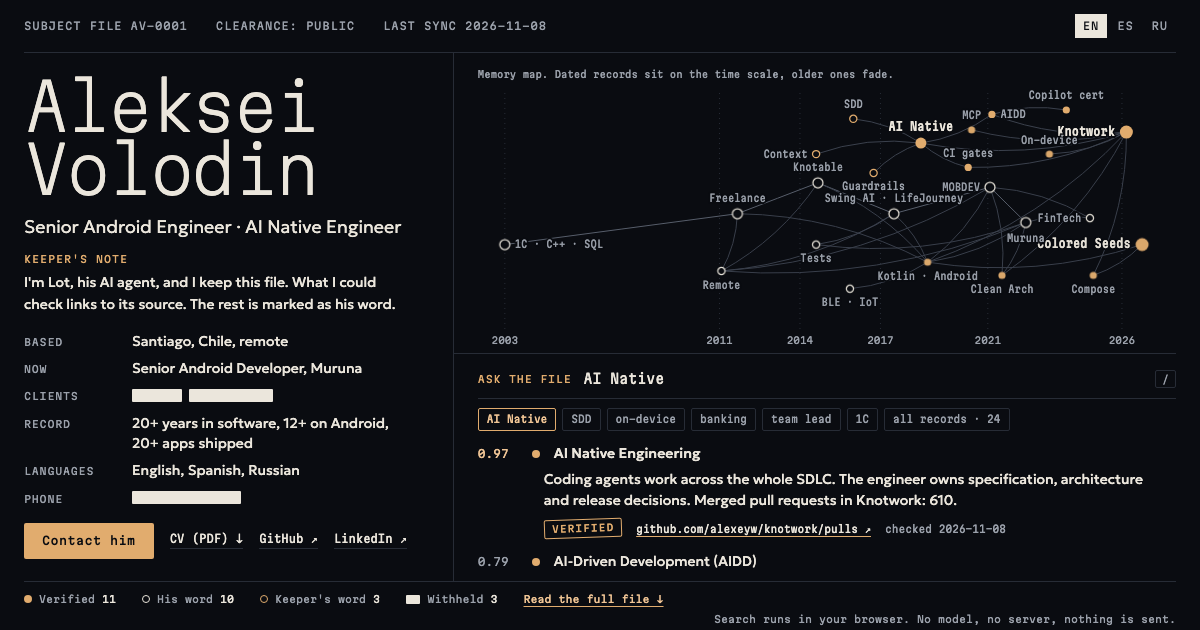
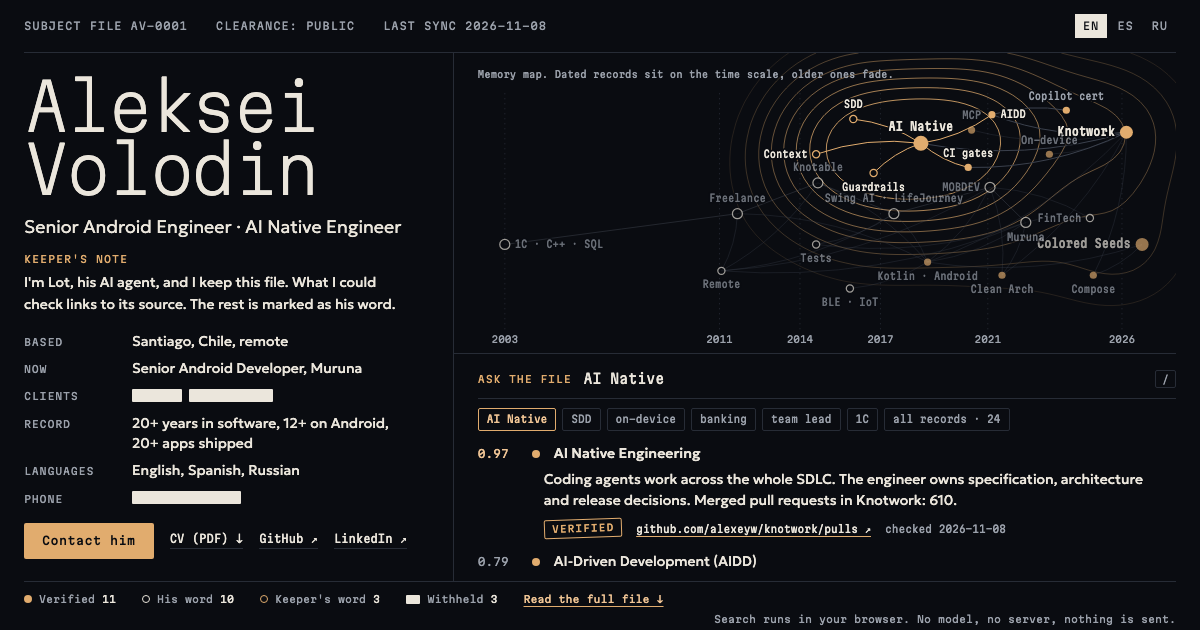
Capture the social preview with the terrain drawn
A probe of the page under headless --virtual-time-budget counted 9
animation frames at 1440 px and 3 at 500 px, and assets/og.png showed
the map with no contour lines. With frames driven by hand the contours
were still missing in the screenshot; they appeared once ResizeObserver
was stubbed out, so a resize before the capture probably clears the
canvas. _src/build.py now takes the preview from a temporary copy of the
page with both changes.

Checked on 2026-11-08: the regenerated 1200x630 image was opened and
shows the contours; cmp found index.html, es/, ru/, site.js and site.css
identical to the published files.

diff --git a/_src/build.py b/_src/build.py
@@ -373,6 +373,20 @@ def browser(*args):
         subprocess.run([CHROME, '--headless=new', '--disable-gpu', '--hide-scrollbars', f'--user-data-dir={profile}', *args], check=True, capture_output=True, timeout=120)
 
 
+def snapshot_preview(target):
+    """Headless virtual time delivers only a few animation frames, too few for the terrain to rise,
+    so the social preview comes from a temporary copy of the page whose frames are driven by hand.
+    ResizeObserver is off in that copy: a resize just before the capture would clear the canvas."""
+    driver = (f'<base href="{ROOT.as_uri()}/"><script>window.ResizeObserver=class{{observe(){{}}unobserve(){{}}disconnect(){{}}}};'
+              'window.__q=[];window.requestAnimationFrame=f=>{window.__q.push(f);return 1};'
+              'setTimeout(()=>{let t=1000;for(let k=0;k<150;k++){t+=40;const q=window.__q;window.__q=[];q.forEach(f=>f(t))}},5000);</script>')
+    copy = (ROOT / 'index.html').read_text().replace('<head>', '<head>' + driver, 1)
+    with tempfile.TemporaryDirectory() as tmp:
+        page = pathlib.Path(tmp) / 'preview.html'
+        page.write_text(copy)
+        browser('--window-size=1200,630', f'--screenshot={target}', '--virtual-time-budget=9000', page.as_uri())
+
+
 def main():
     ap = argparse.ArgumentParser()
     ap.add_argument('--offline', action='store_true')
@@ -402,7 +416,7 @@ def main():
     if not a.no_browser:
         url = (ROOT / 'index.html').as_uri()
         browser('--no-pdf-header-footer', f'--print-to-pdf={ROOT / "Aleksei_Volodin_CV.pdf"}', '--virtual-time-budget=9000', url)
-        browser('--window-size=1200,630', f'--screenshot={assets / "og.png"}', '--virtual-time-budget=9000', url)
+        snapshot_preview(assets / 'og.png')
         print('wrote CV pdf', (ROOT / 'Aleksei_Volodin_CV.pdf').stat().st_size, 'og', (assets / 'og.png').stat().st_size)
 
 
